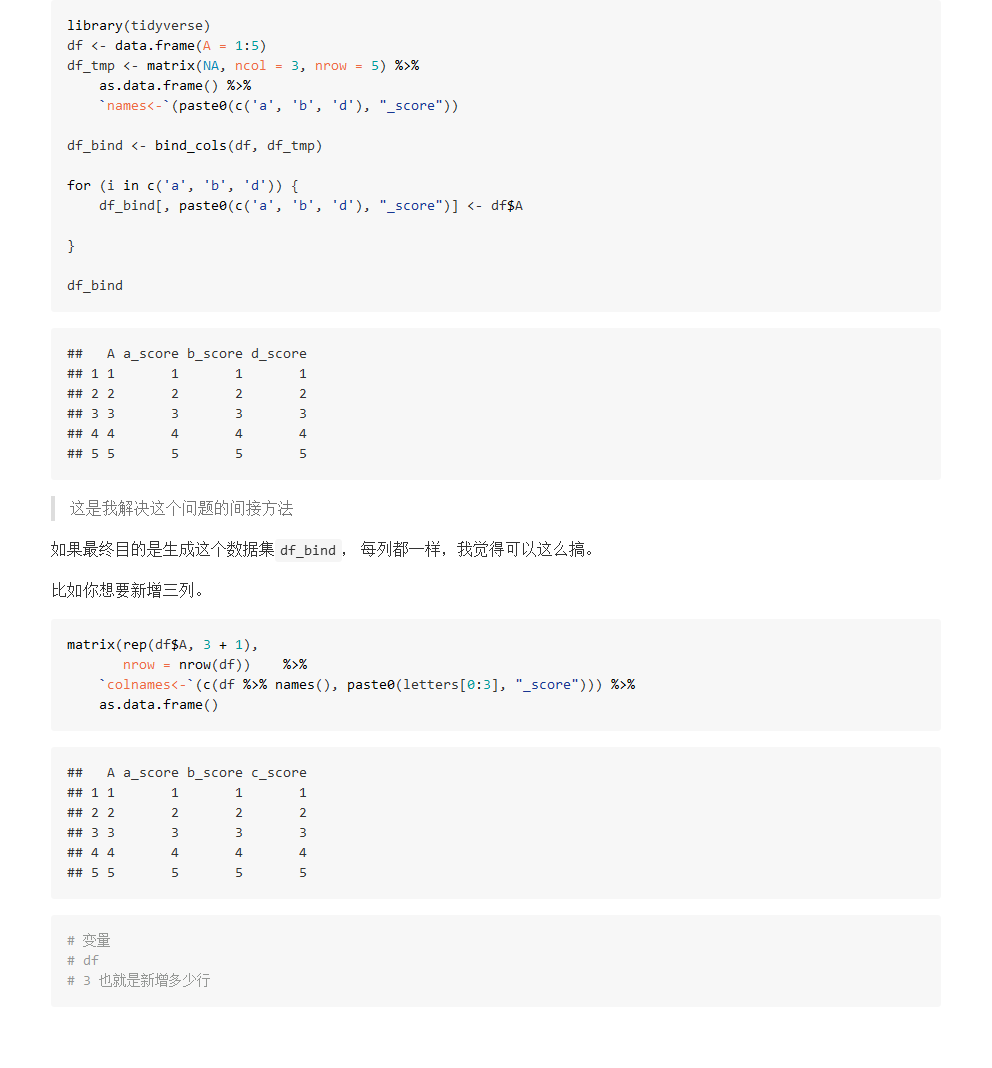
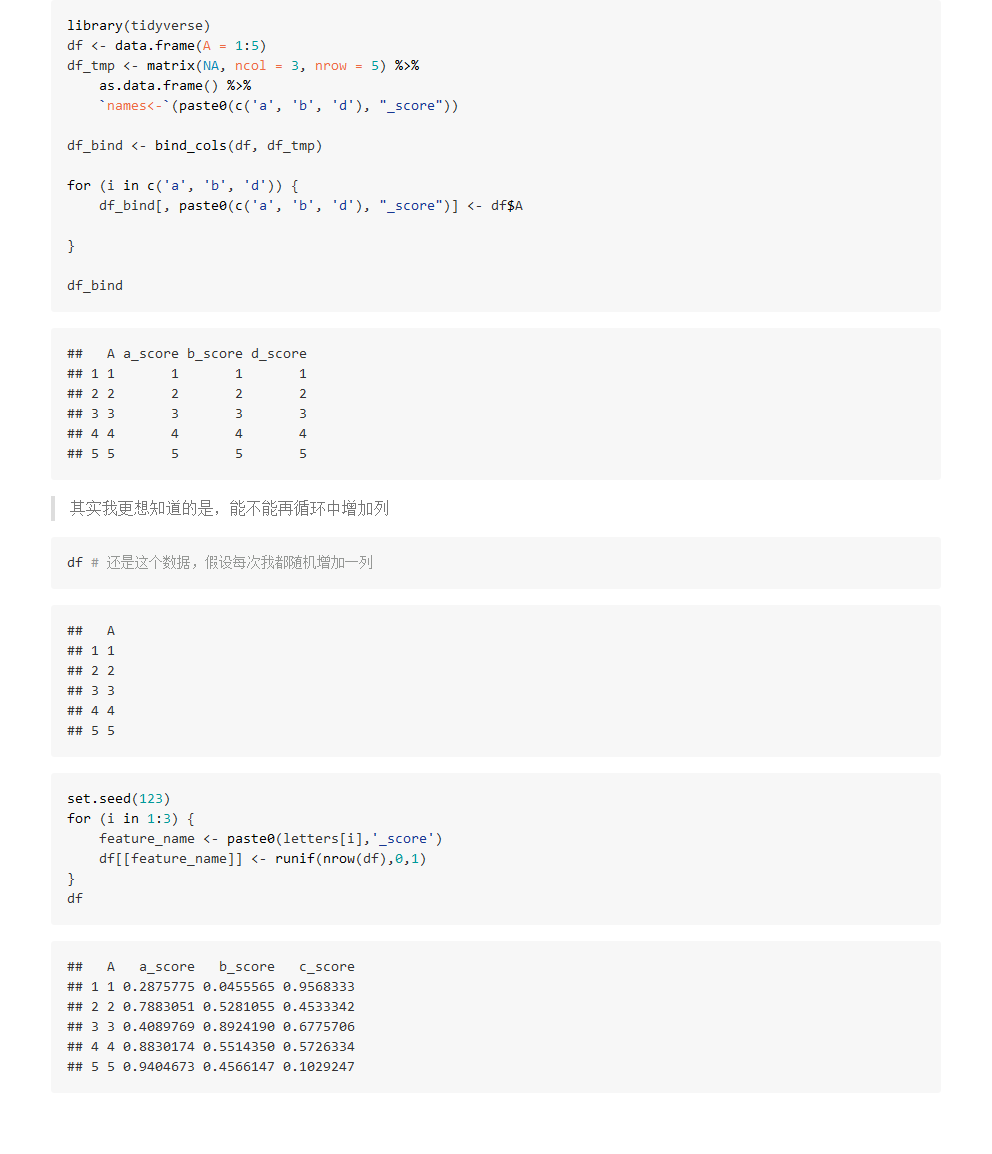
add notes for https://github.com/JiaxiangBU/tutoring2/issues/45#issuecomment-599016988

diff --git a/commit.html b/commit.html
@@ -622,24 +622,29 @@ body {
 ## 5 5       5       5       5
 </code></pre>
 <blockquote>
-<p>这是我解决这个问题的间接方法</p>
+<p>其实我更想知道的是，能不能再循环中增加列</p>
 </blockquote>
-<p>如果最终目的是生成这个数据集<code>df_bind</code>， 每列都一样，我觉得可以这么搞。</p>
-<p>比如你想要新增三列。</p>
-<div class="sourceCode" id="cb3"><pre class="sourceCode r"><code class="sourceCode r"><a class="sourceLine" id="cb3-1" title="1"><span class="kw">matrix</span>(<span class="kw">rep</span>(df<span class="op">$</span>A, <span class="dv">3</span> <span class="op">+</span><span class="st"> </span><span class="dv">1</span>),</a>
-<a class="sourceLine" id="cb3-2" title="2">       <span class="dt">nrow =</span> <span class="kw">nrow</span>(df))    <span class="op">%&gt;%</span></a>
-<a class="sourceLine" id="cb3-3" title="3"><span class="st">    `</span><span class="dt">colnames&lt;-</span><span class="st">`</span>(<span class="kw">c</span>(df <span class="op">%&gt;%</span><span class="st"> </span><span class="kw">names</span>(), <span class="kw">paste0</span>(letters[<span class="dv">0</span><span class="op">:</span><span class="dv">3</span>], <span class="st">&quot;_score&quot;</span>))) <span class="op">%&gt;%</span></a>
-<a class="sourceLine" id="cb3-4" title="4"><span class="st">    </span><span class="kw">as.data.frame</span>()</a></code></pre></div>
-<pre><code>##   A a_score b_score c_score
-## 1 1       1       1       1
-## 2 2       2       2       2
-## 3 3       3       3       3
-## 4 4       4       4       4
-## 5 5       5       5       5
+<div class="sourceCode" id="cb3"><pre class="sourceCode r"><code class="sourceCode r"><a class="sourceLine" id="cb3-1" title="1">df <span class="co"># 还是这个数据，假设每次我都随机增加一列</span></a></code></pre></div>
+<pre><code>##   A
+## 1 1
+## 2 2
+## 3 3
+## 4 4
+## 5 5
 </code></pre>
-<div class="sourceCode" id="cb5"><pre class="sourceCode r"><code class="sourceCode r"><a class="sourceLine" id="cb5-1" title="1"><span class="co"># 变量</span></a>
-<a class="sourceLine" id="cb5-2" title="2"><span class="co"># df</span></a>
-<a class="sourceLine" id="cb5-3" title="3"><span class="co"># 3 也就是新增多少行</span></a></code></pre></div>
+<div class="sourceCode" id="cb5"><pre class="sourceCode r"><code class="sourceCode r"><a class="sourceLine" id="cb5-1" title="1"><span class="kw">set.seed</span>(<span class="dv">123</span>)</a>
+<a class="sourceLine" id="cb5-2" title="2"><span class="cf">for</span> (i <span class="cf">in</span> <span class="dv">1</span><span class="op">:</span><span class="dv">3</span>) {</a>
+<a class="sourceLine" id="cb5-3" title="3">    feature_name &lt;-<span class="st"> </span><span class="kw">paste0</span>(letters[i],<span class="st">&#39;_score&#39;</span>)</a>
+<a class="sourceLine" id="cb5-4" title="4">    df[[feature_name]] &lt;-<span class="st"> </span><span class="kw">runif</span>(<span class="kw">nrow</span>(df),<span class="dv">0</span>,<span class="dv">1</span>)</a>
+<a class="sourceLine" id="cb5-5" title="5">}</a>
+<a class="sourceLine" id="cb5-6" title="6">df</a></code></pre></div>
+<pre><code>##   A   a_score   b_score   c_score
+## 1 1 0.2875775 0.0455565 0.9568333
+## 2 2 0.7883051 0.5281055 0.4533342
+## 3 3 0.4089769 0.8924190 0.6775706
+## 4 4 0.8830174 0.5514350 0.5726334
+## 5 5 0.9404673 0.4566147 0.1029247
+</code></pre>
 
 </body>
 </html>

diff --git a/commit.md b/commit.md
@@ -23,28 +23,31 @@ df_bind
     ## 4 4       4       4       4
     ## 5 5       5       5       5
 
-> 这是我解决这个问题的间接方法
-
-如果最终目的是生成这个数据集`df_bind`， 每列都一样，我觉得可以这么搞。
-
-比如你想要新增三列。
+> 其实我更想知道的是，能不能再循环中增加列
 
 ``` r
-matrix(rep(df$A, 3 + 1),
-       nrow = nrow(df))    %>%
-    `colnames<-`(c(df %>% names(), paste0(letters[0:3], "_score"))) %>%
-    as.data.frame()
+df # 还是这个数据，假设每次我都随机增加一列
 ```
 
-    ##   A a_score b_score c_score
-    ## 1 1       1       1       1
-    ## 2 2       2       2       2
-    ## 3 3       3       3       3
-    ## 4 4       4       4       4
-    ## 5 5       5       5       5
+    ##   A
+    ## 1 1
+    ## 2 2
+    ## 3 3
+    ## 4 4
+    ## 5 5
 
 ``` r
-# 变量
-# df
-# 3 也就是新增多少行
+set.seed(123)
+for (i in 1:3) {
+    feature_name <- paste0(letters[i],'_score')
+    df[[feature_name]] <- runif(nrow(df),0,1)
+}
+df
 ```
+
+    ##   A   a_score   b_score   c_score
+    ## 1 1 0.2875775 0.0455565 0.9568333
+    ## 2 2 0.7883051 0.5281055 0.4533342
+    ## 3 3 0.4089769 0.8924190 0.6775706
+    ## 4 4 0.8830174 0.5514350 0.5726334
+    ## 5 5 0.9404673 0.4566147 0.1029247
